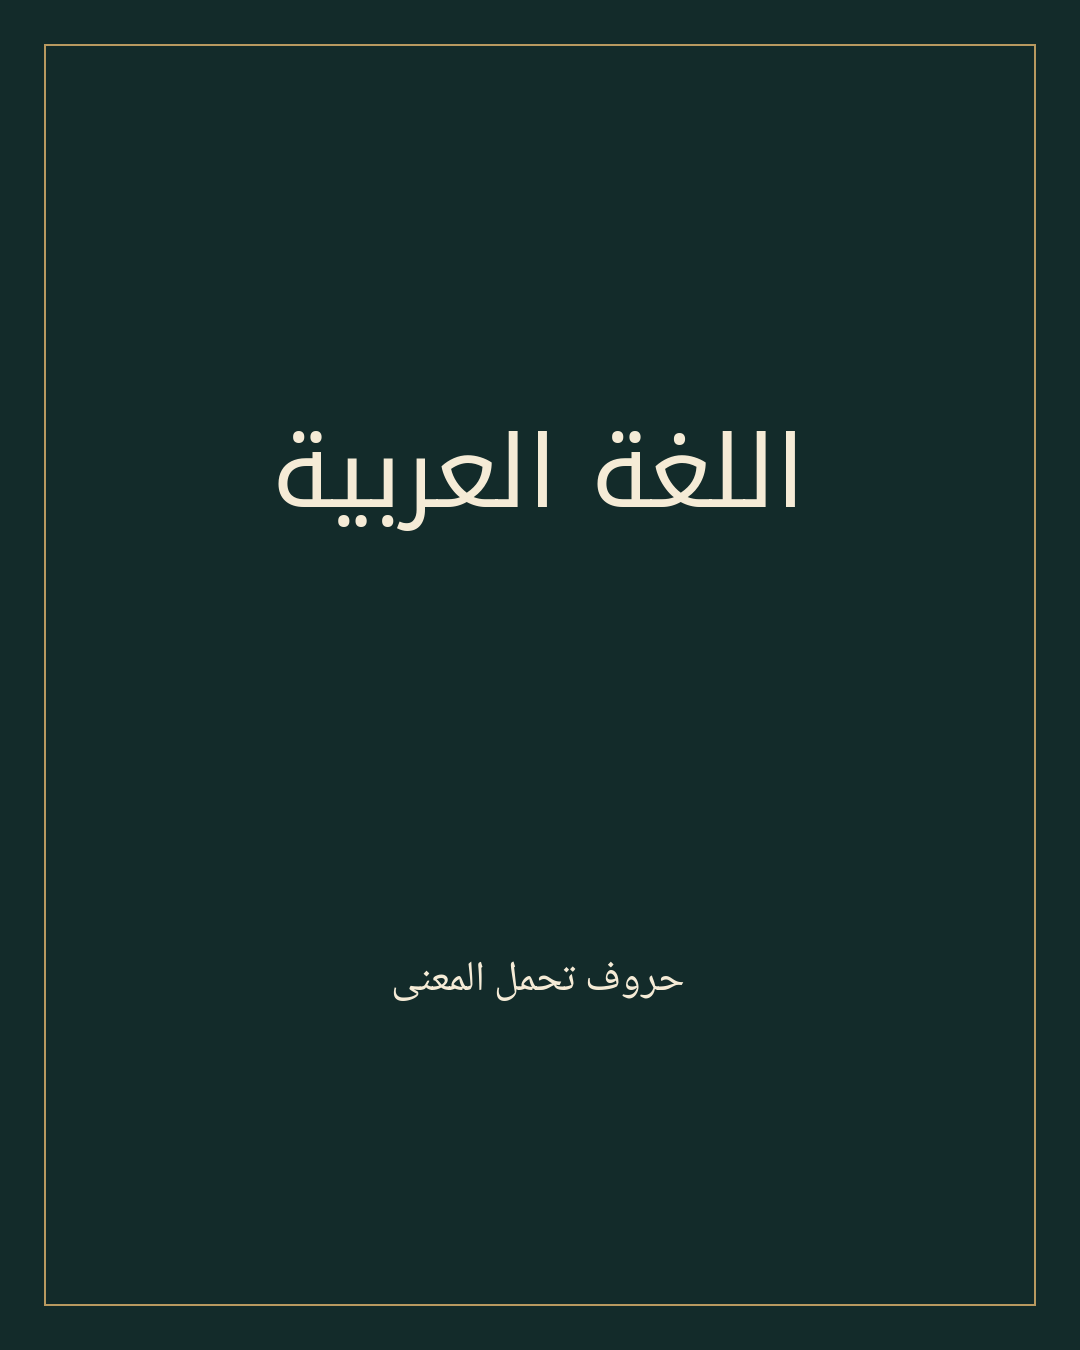
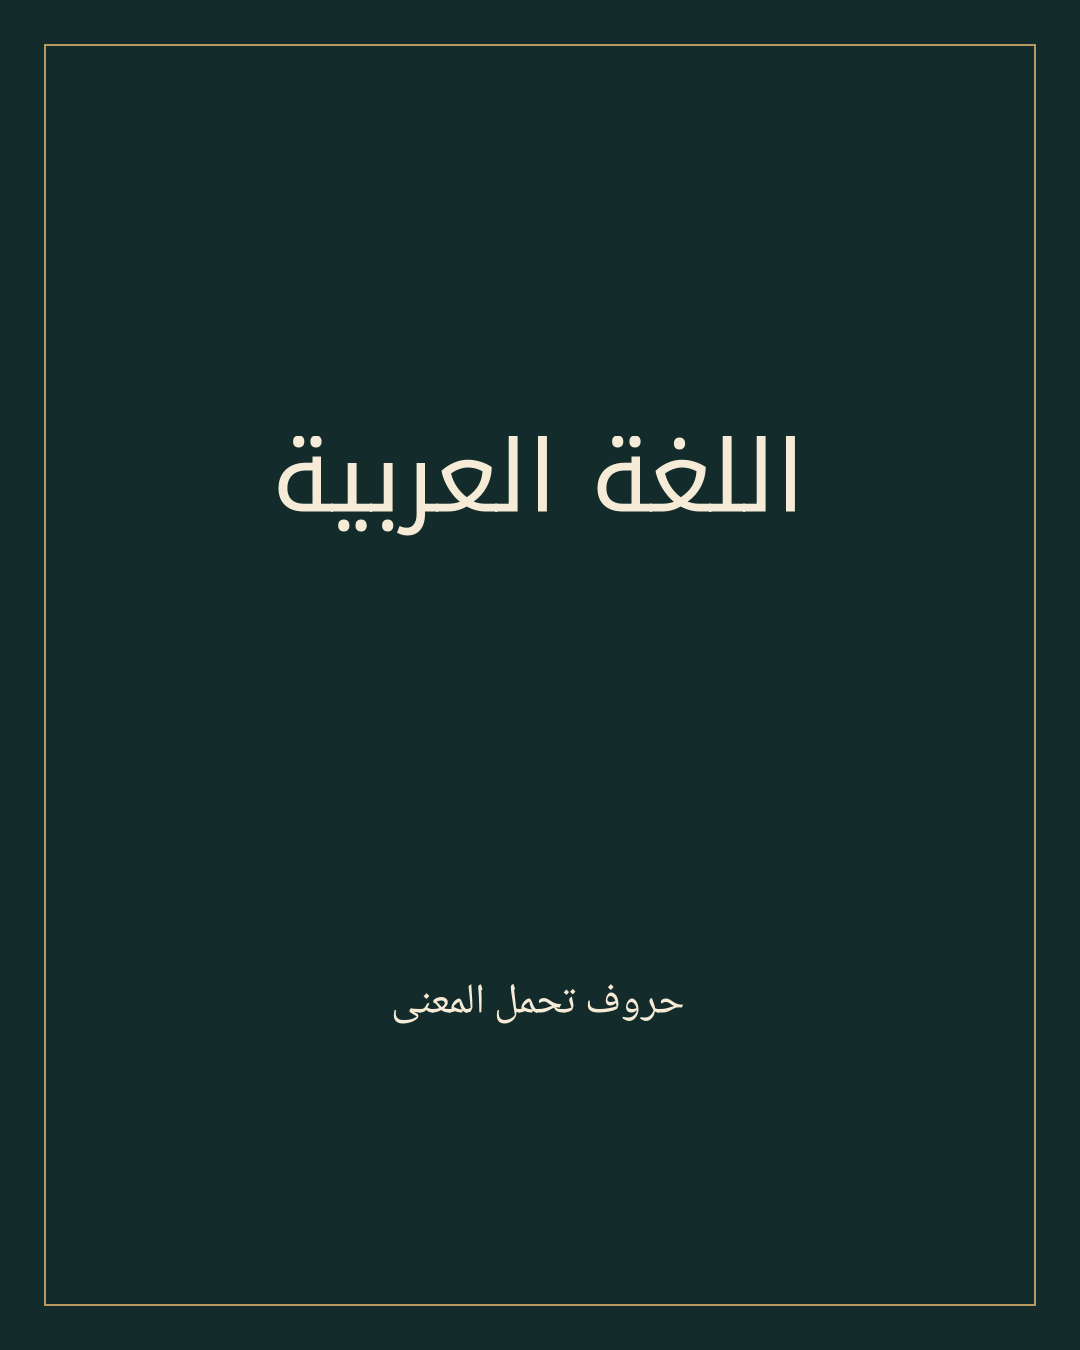
fix: preserve carriage returns and honor scaled layout bounds

Changed region(s): [[0.3667, 0.7156, 0.6417, 0.7778], [0.55, 0.3111, 0.7028, 0.4044], [0.2444, 0.3111, 0.4583, 0.4044]]

diff --git a/src/arabic_calligraphy/layouts.py b/src/arabic_calligraphy/layouts.py
@@ -40,29 +40,34 @@ def poster(text, output, *, style="kufic", subtitle=None, width=1080, height=135
     text_all = text + ("\n" + subtitle if subtitle else "")
     with Canvas(output, width, height, background, text_all) as canvas:
         border(canvas, margin / 2)
-        draw_block(canvas, text, family, font_size, margin, height * .28,
-                   width - 2 * margin, height * .36, ink=foreground)
+        draw_block(canvas, text, family, font_size, margin, margin + (height - 2 * margin) * .25,
+                   width - 2 * margin, (height - 2 * margin) * .4, ink=foreground)
         if subtitle:
             draw_block(canvas, subtitle, family_for("naskh"), font_size * .42, margin,
-                       height * .70, width - 2 * margin, height * .18, ink=foreground)
+                       margin + (height - 2 * margin) * .75, width - 2 * margin,
+                       (height - 2 * margin) * .25, ink=foreground)
     return Path(output)
 
 
 def certificate(recipient, body, output, *, title="شهادة تقدير", signature="",
                 width=1190, height=842):
     """Landscape certificate; Naskh typography, not the Ijazah calligraphic hand."""
+    validate_text(recipient)
+    validate_text(body)
     dimensions(width, height, 70, 52)
+    scale = min(width / 1190, height / 842)
     text_all = "\n".join(x for x in (title, recipient, body, signature) if x)
     with Canvas(output, width, height, "#FAF6EC", text_all) as canvas:
-        border(canvas, 30)
-        border(canvas, 40)
+        border(canvas, 30 * scale)
+        border(canvas, 40 * scale)
         family = family_for("naskh")
         for text, size, y, available in (
             (title, 64, 90, 150), (recipient, 52, 260, 130),
             (body, 30, 430, 180), (signature, 26, 680, 80),
         ):
             if text:
-                draw_block(canvas, text, family, size, 80, y, width - 160, available,
+                draw_block(canvas, text, family, size * scale, 80 * scale, y * height / 842,
+                           width - 160 * scale, available * height / 842,
                            ink="#132B2A")
     return Path(output)
 

diff --git a/tests/test_engine.py b/tests/test_engine.py
@@ -131,6 +131,27 @@ class Artifacts(unittest.TestCase):
         p=self.root/'certificate.pdf';certificate('أحمد محمد','تقديراً للجهود المتميزة',p)
         self.assertEqual(len(PdfReader(p).pages),1)
 
+    def test_certificate_rejects_empty_required_fields(self):
+        for recipient, body in [('', 'نص'), ('اسم', '   ')]:
+            with self.assertRaises(ValueError):
+                certificate(recipient, body, self.root/'blank.pdf')
+
+    def test_certificate_scales_canvas(self):
+        p=self.root/'small.png'
+        certificate('أحمد', 'شكراً', p, width=595, height=421)
+        with Image.open(p) as image:
+            self.assertEqual(image.size, (595,421))
+
+    def test_poster_respects_large_margin(self):
+        p=self.root/'poster.png'
+        poster('نور',p,width=640,height=640,font_size=28,margin=200,
+               background='transparent',foreground='#FFFFFF')
+        with Image.open(p) as image:
+            # The decorative frame is intentionally at half the margin.
+            box=image.getchannel('A').getbbox()
+            self.assertGreaterEqual(box[0],99)
+            self.assertLessEqual(box[2],541)
+
     def test_cli_success(self):
         with contextlib.redirect_stdout(io.StringIO()):
             code=main(['render','--text','العلم نور','--size','640x360','--font-size','48',

diff --git a/src/arabic_calligraphy/engine.py b/src/arabic_calligraphy/engine.py
@@ -168,7 +168,8 @@ class Canvas:
                     desc = ET.Element("{http://www.w3.org/2000/svg}desc")
                     desc.text = self.text
                     tree.getroot().insert(0, desc)
-                    tree.write(self.temp, encoding="utf-8", xml_declaration=True)
+                    serialized = ET.tostring(tree.getroot(), encoding="utf-8", xml_declaration=True)
+                    Path(self.temp).write_bytes(serialized.replace(b"\r", b"&#13;"))
                 if self.suffix == ".pdf" and self.page_texts:
                     from .pdf import attach_actual_text
 
